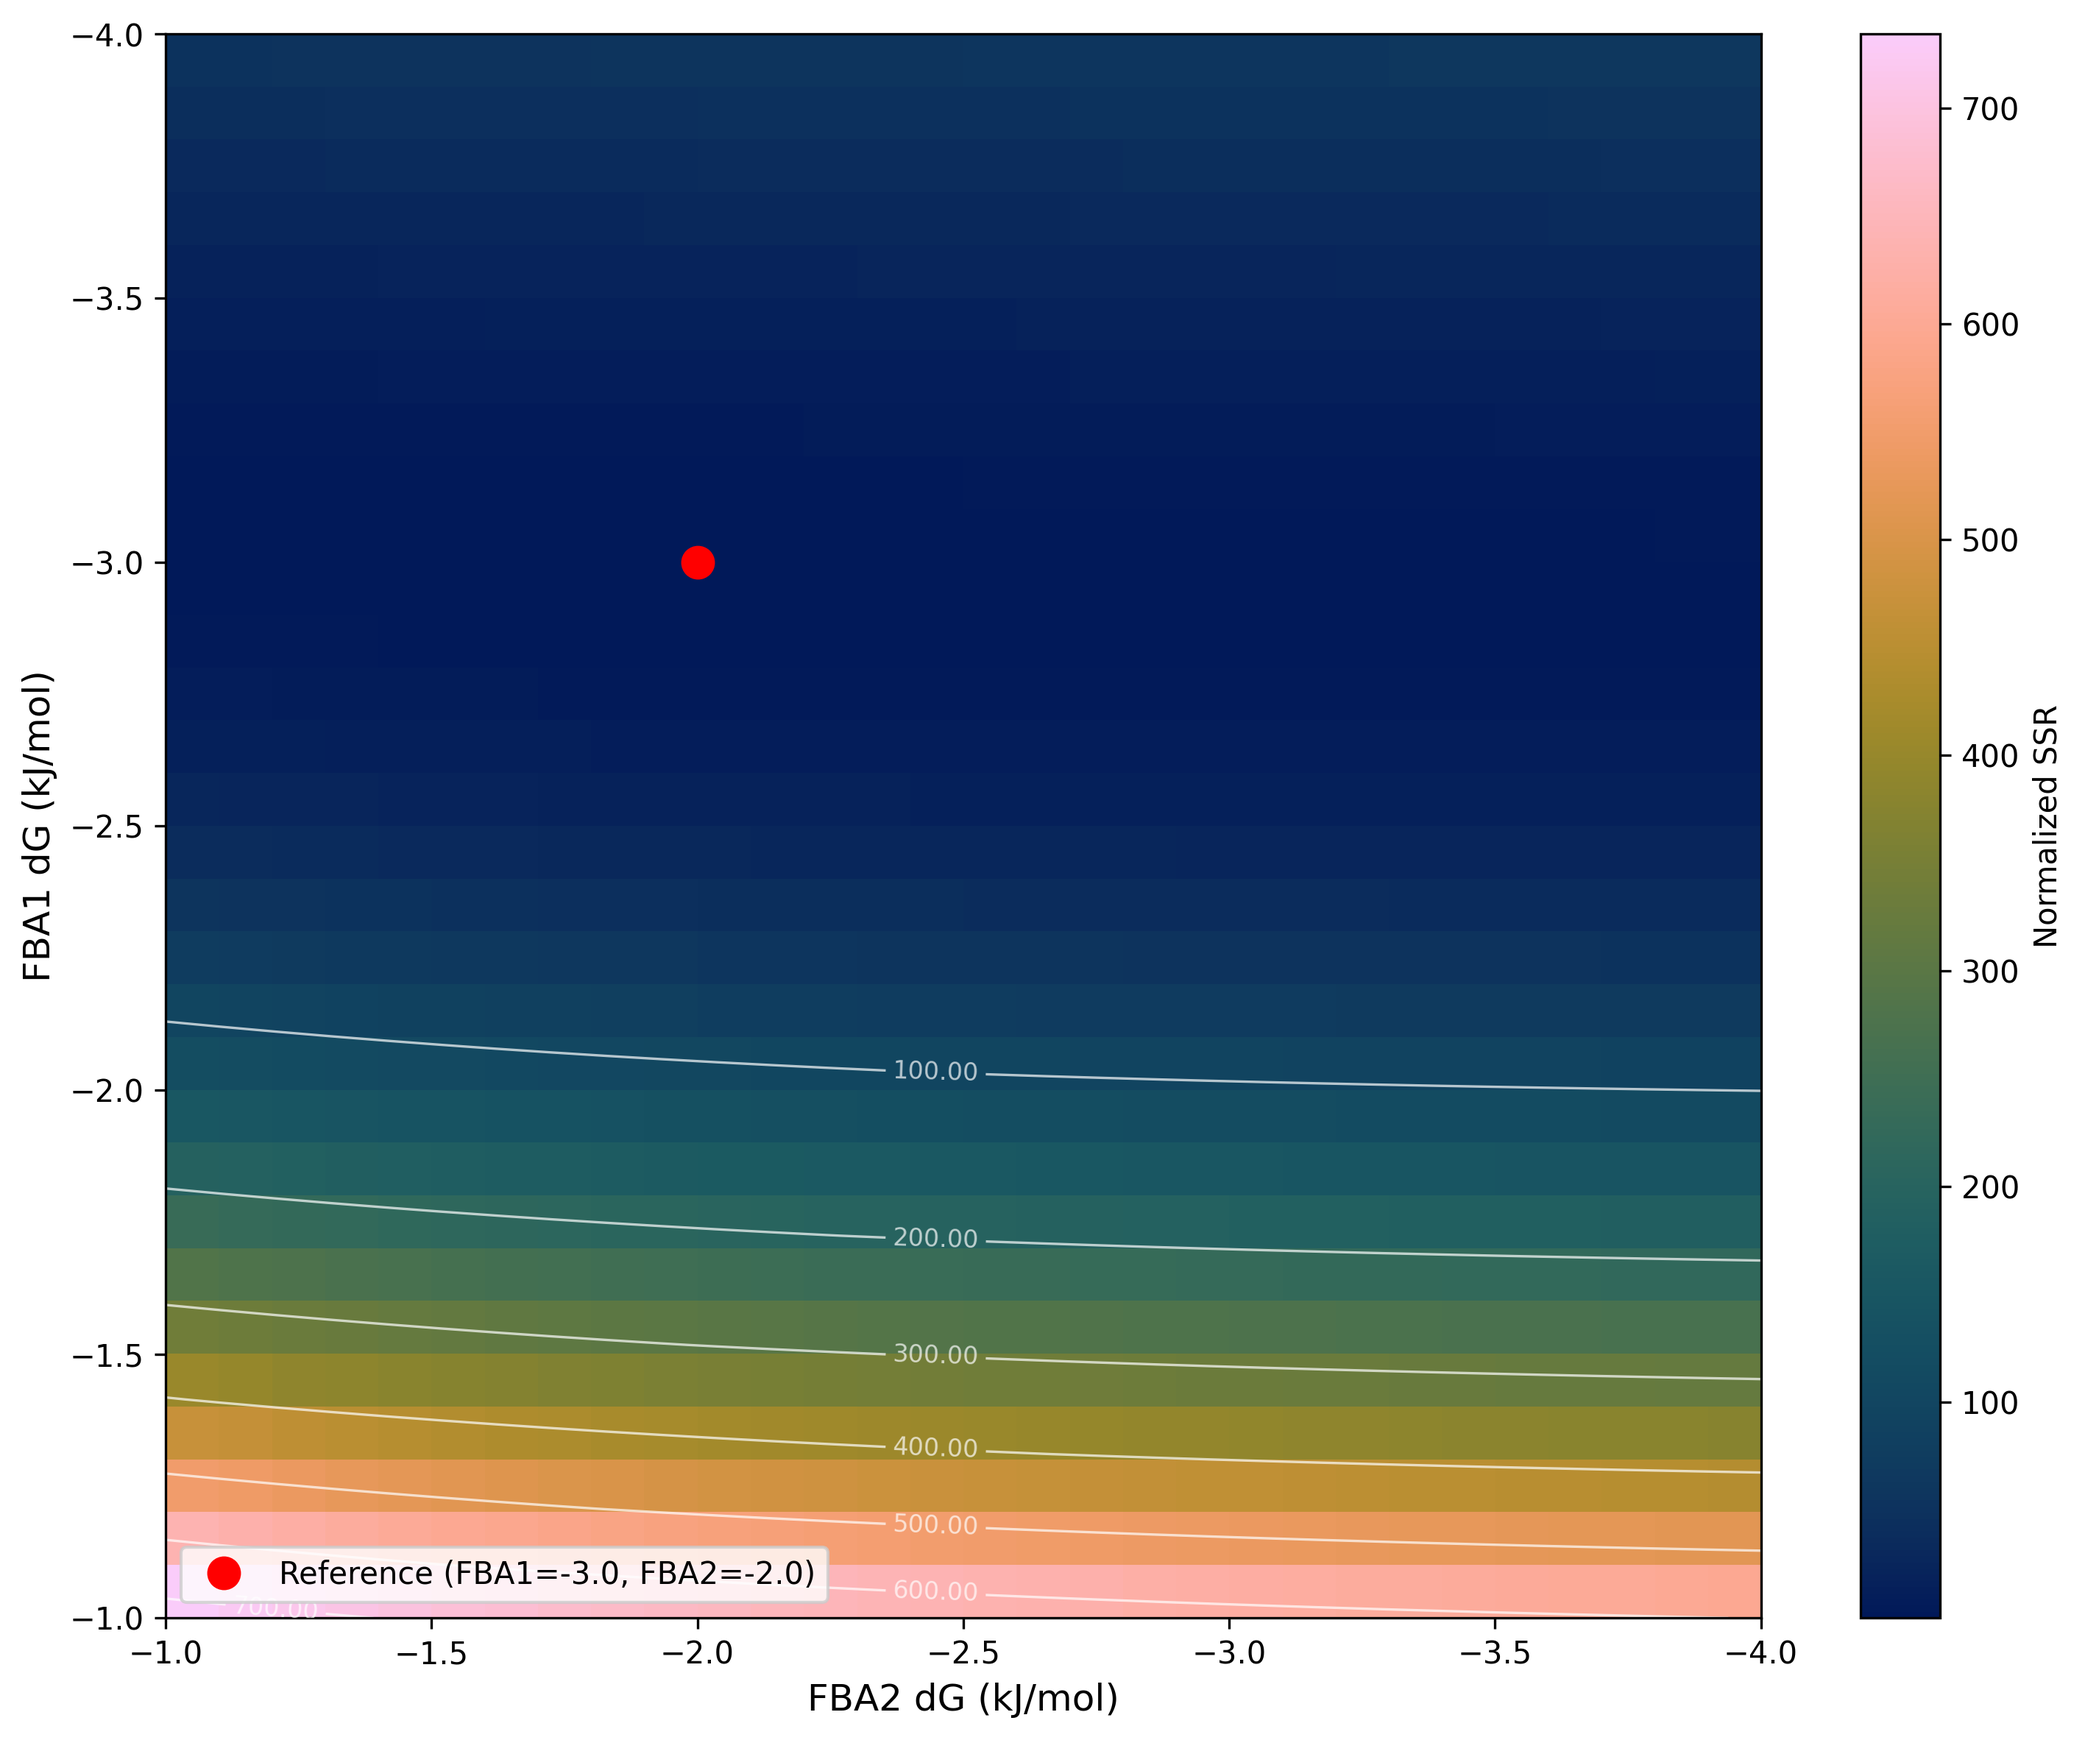
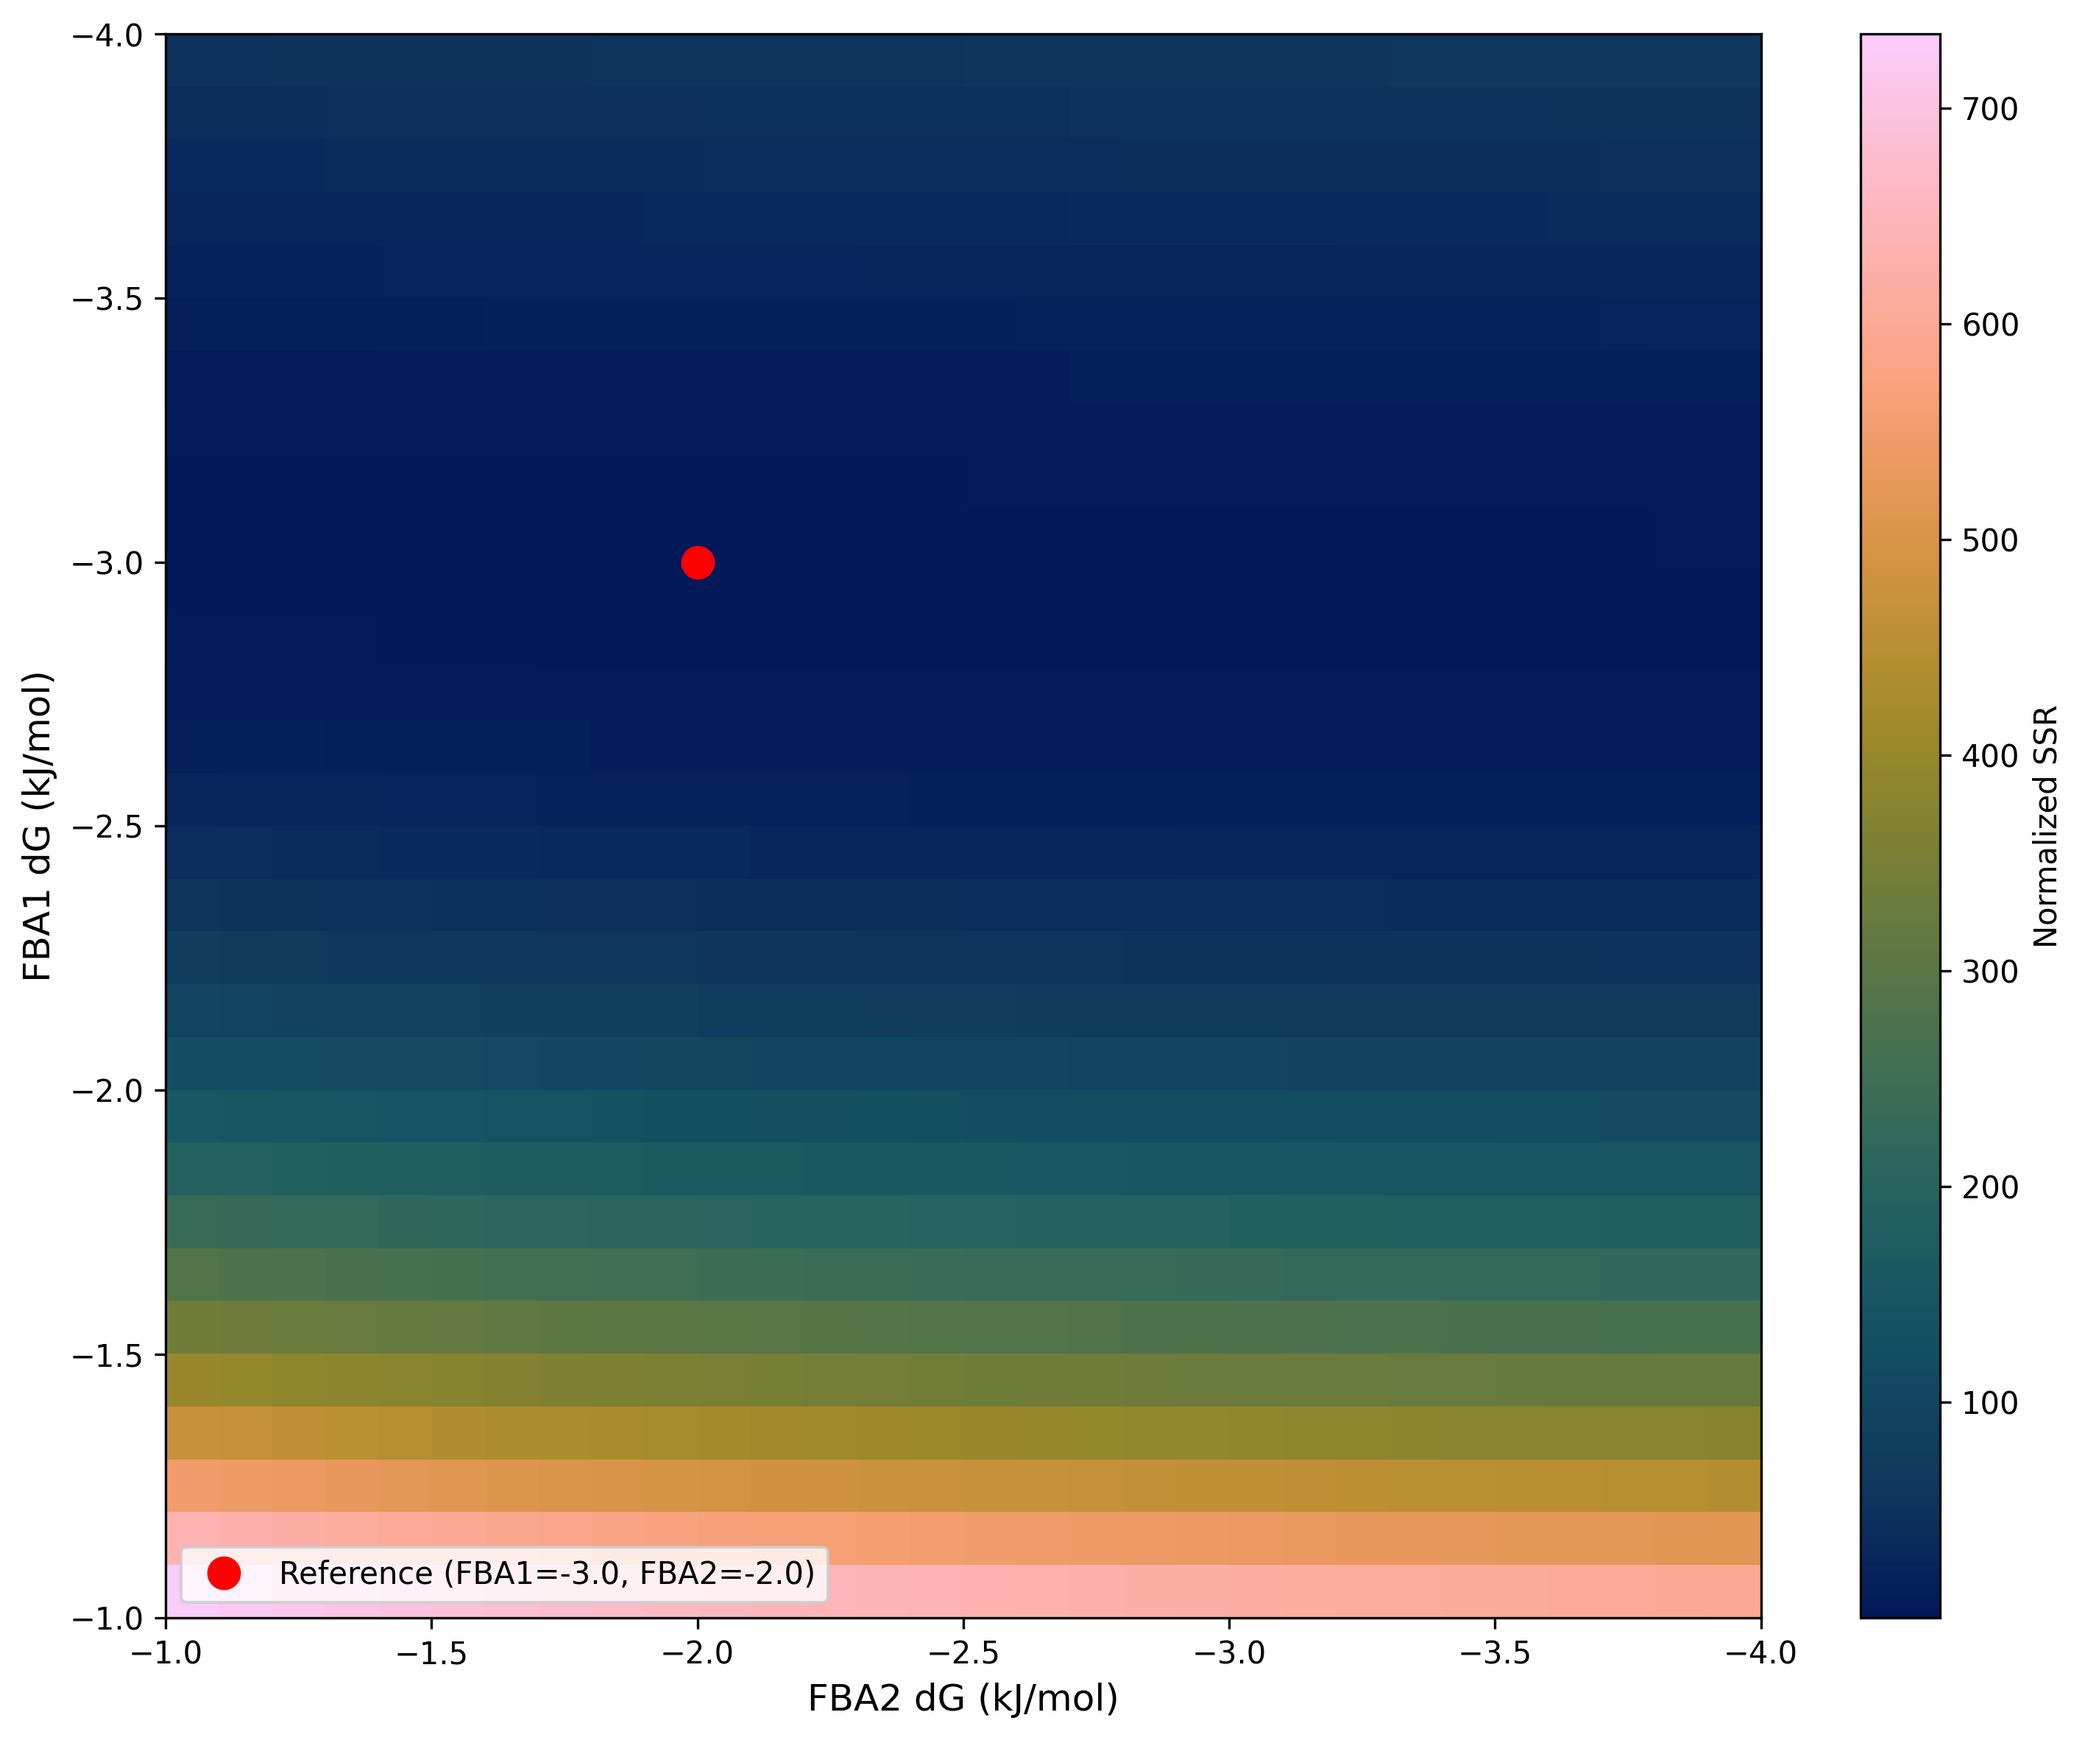
Remove contour lines from 2D landscape plots

Changed region(s): [[0.4349, 0.8646, 0.4659, 0.9264], [0.4349, 0.772, 0.4659, 0.8029]]

diff --git a/scripts/gibbs_landscape_2d.py b/scripts/gibbs_landscape_2d.py
@@ -332,14 +332,11 @@ def run_2d_scan(dG1_values, dG2_values, timepoints):
 
 
 def plot_landscape(df, value_col, title_suffix, output_path):
-    """Plot 2D SSR landscape as heatmap with contours."""
+    """Plot 2D SSR landscape as heatmap."""
     # Pivot for heatmap (FBA2 on x-axis, FBA1 on y-axis)
     pivot = df.pivot(index="FBA1_deltaG", columns="FBA2_deltaG", values=value_col)
 
     fig, ax = plt.subplots(figsize=(10, 8))
-
-    # Create meshgrid for contours
-    X, Y = np.meshgrid(pivot.columns.values, pivot.index.values)
 
     # Create heatmap
     im = ax.imshow(
@@ -354,15 +351,6 @@ def plot_landscape(df, value_col, title_suffix, output_path):
         ],
         cmap=cmc.batlow,
     )
-
-    # Add contour lines
-    contours = ax.contour(
-        X, Y, pivot.values,
-        colors="white",
-        alpha=0.7,
-        linewidths=0.8,
-    )
-    ax.clabel(contours, inline=True, fontsize=8, fmt="%.2f")
 
     # Mark the reference point
     ax.plot(
